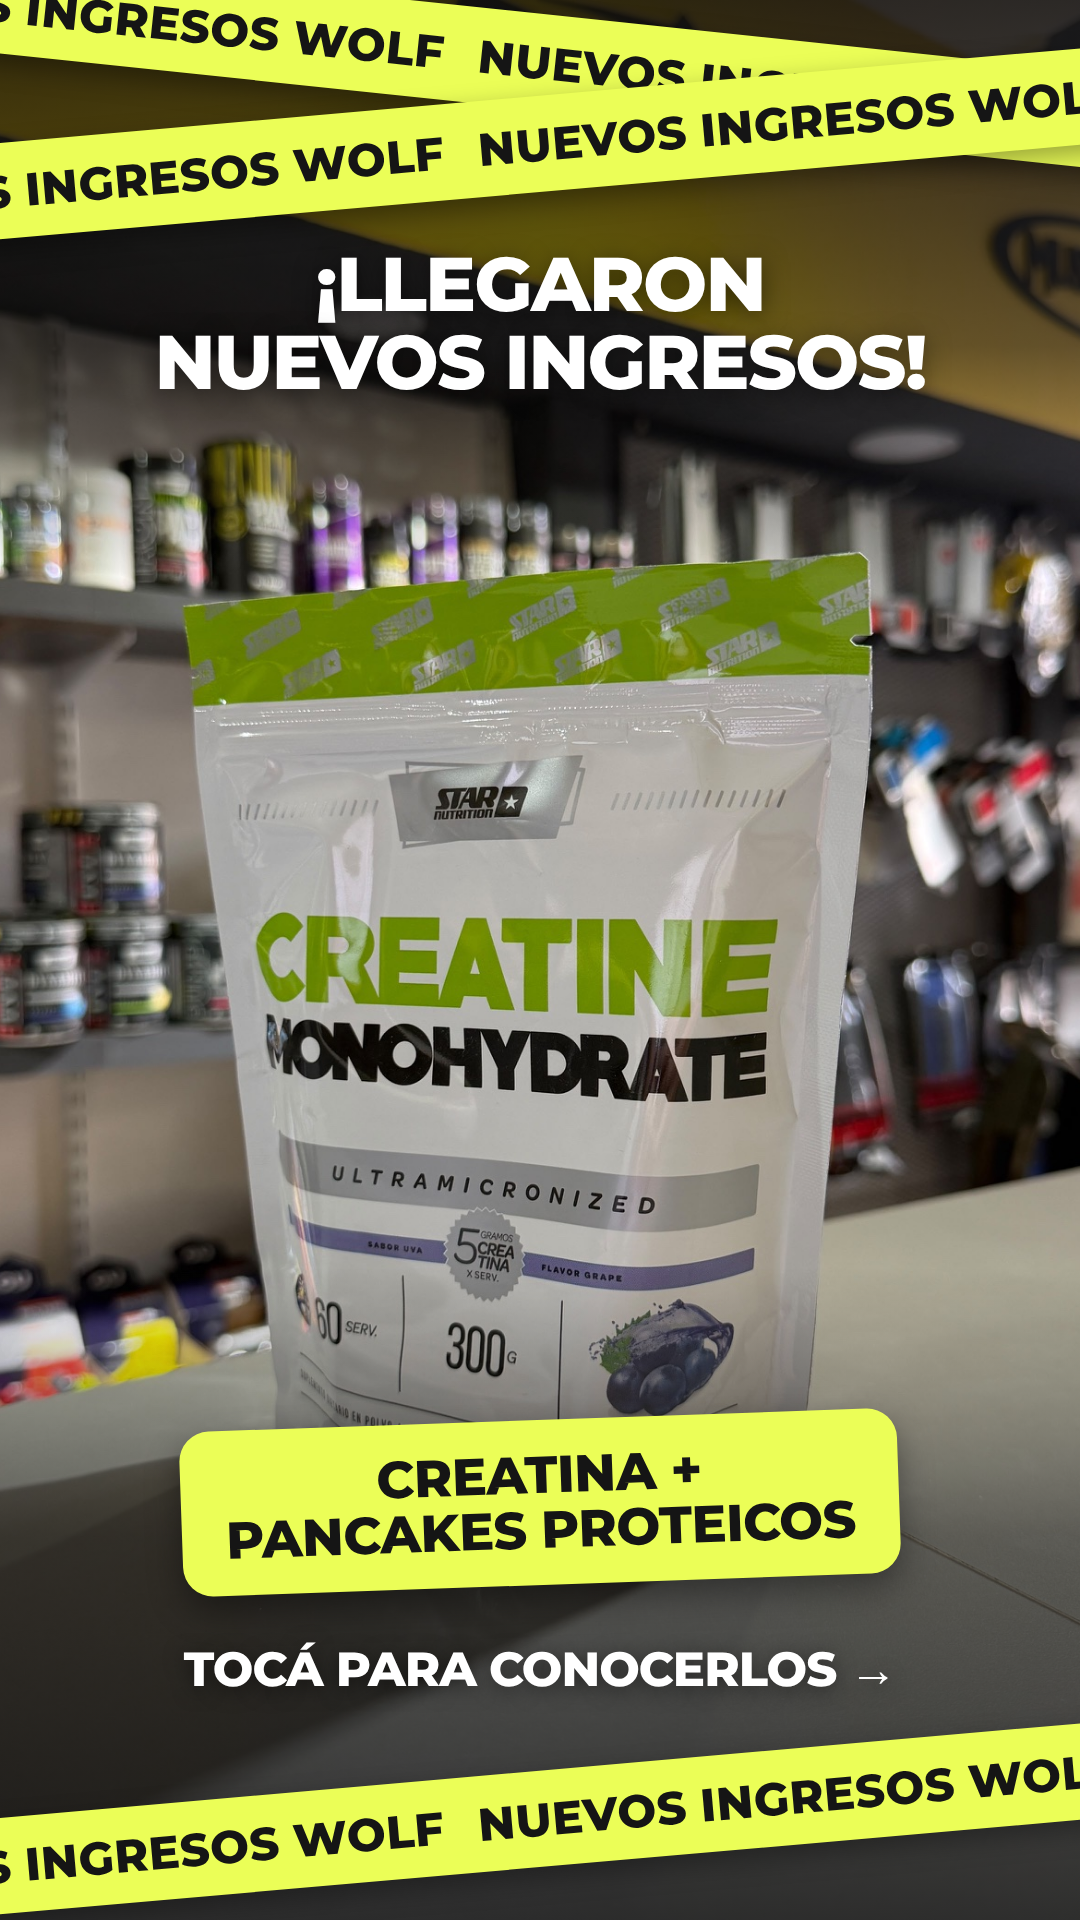
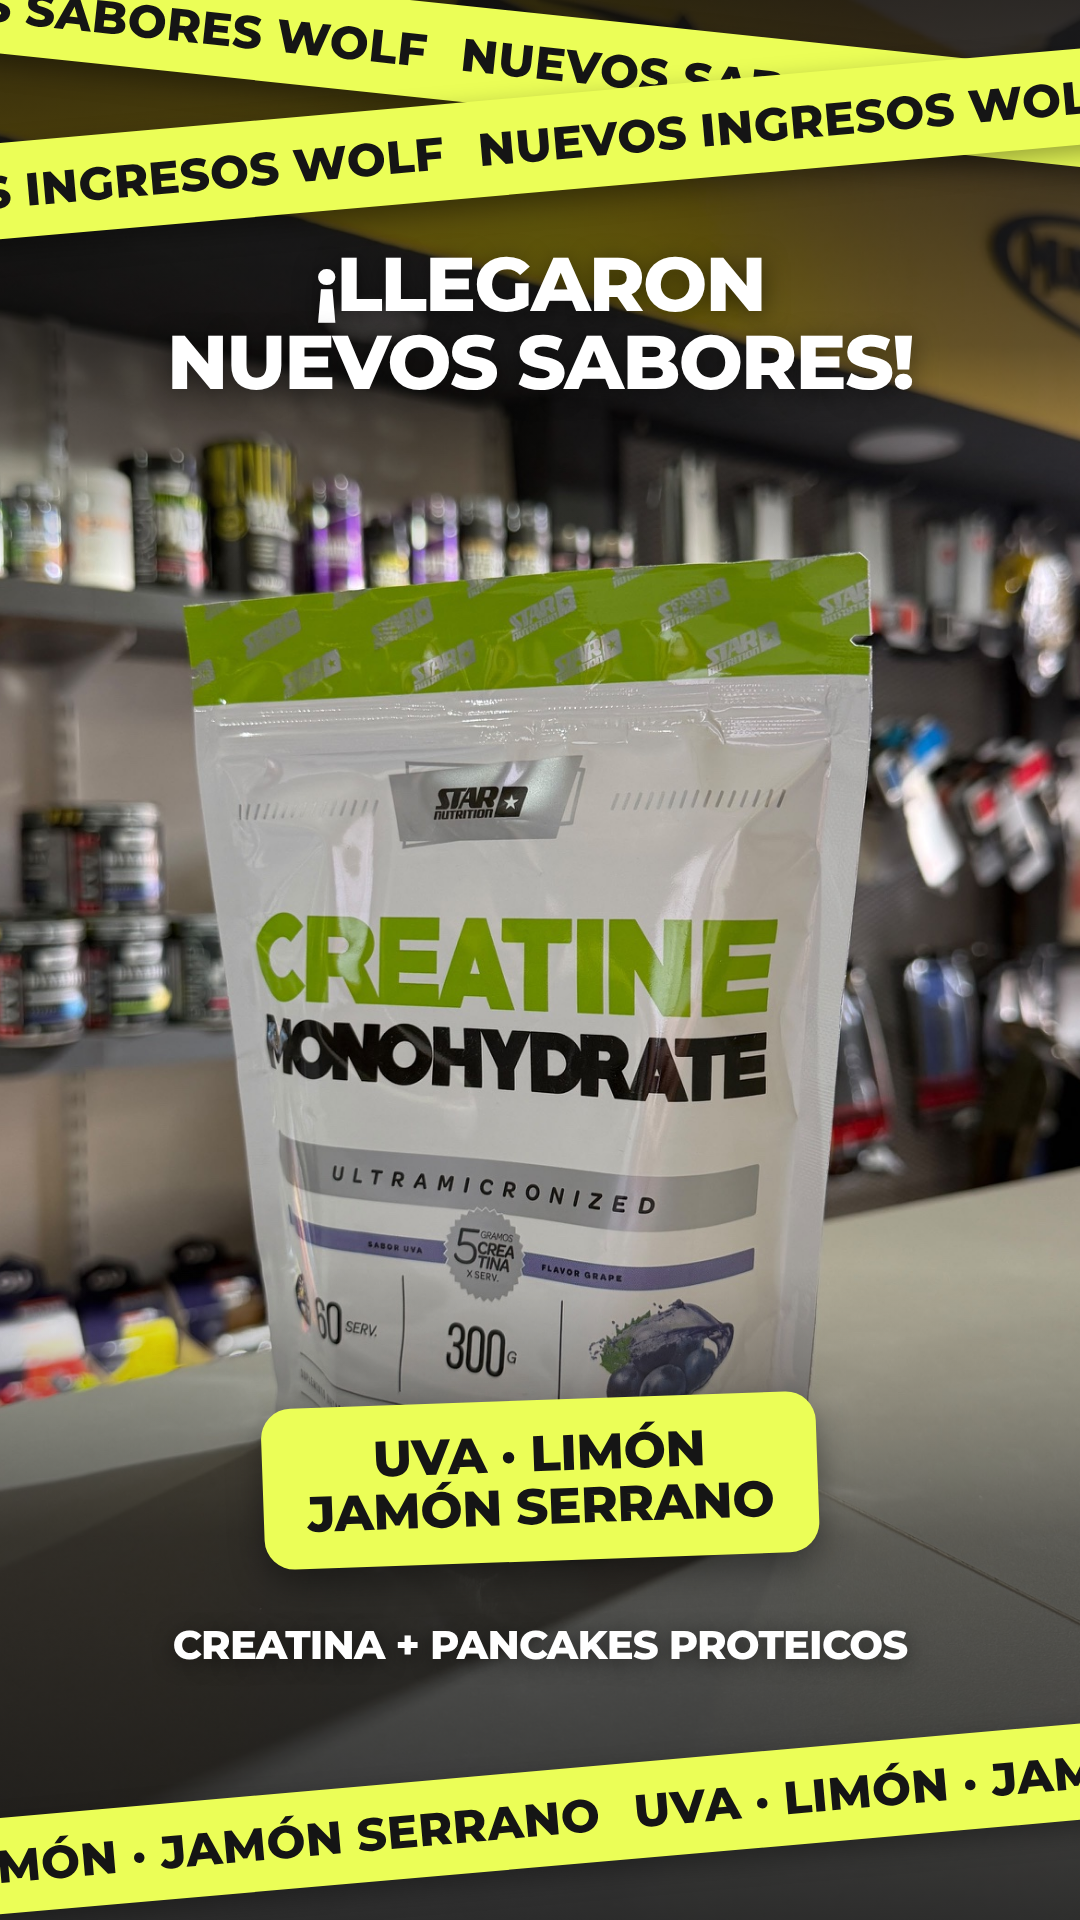
Historias Wolf: destacar los nuevos sabores y quitar el 'tocá para ver'
Claude-Session: https://claude.ai/code/session_014Xof4dSmfPa2gf1dmKRBzh

diff --git a/wolf-historias/historias.html b/wolf-historias/historias.html
@@ -38,91 +38,64 @@
   .half img{position:absolute;top:0;height:100%;width:auto}
   .divider{position:absolute;top:420px;bottom:560px;left:536px;width:8px;background:var(--lime);z-index:4;transform:skewX(-4deg)}
   .poll{position:absolute;left:150px;right:150px;height:230px;border:4px dashed rgba(255,255,255,.75);border-radius:34px;display:flex;align-items:center;justify-content:center;font-weight:600;font-size:28px;color:#fff;text-transform:uppercase;background:rgba(20,20,20,.35);z-index:5}
+  .kicker{position:absolute;left:60px;right:60px;text-align:center;font-weight:600;font-size:36px;letter-spacing:.06em;text-transform:uppercase;text-shadow:0 3px 18px rgba(0,0,0,.6);z-index:5}
+  .flavor{position:absolute;left:30px;right:30px;text-align:center;font-weight:900;text-transform:uppercase;letter-spacing:-.035em;line-height:.95;color:var(--lime);text-shadow:0 6px 30px rgba(0,0,0,.55);z-index:5}
+  .flavor small{display:block;font-size:.42em;color:#fff;letter-spacing:.02em;font-weight:800;margin-bottom:6px}
 </style>
 </head>
 <body>
 
-<!-- ============ 01 PORTADA ============ -->
 <section class="story" id="s1">
   <img class="full" src="img/creatina2.jpg" style="object-position:50% 70%"><div class="shade"></div>
-
-  <div class="tape" style="top:15px;transform:rotate(6deg)"><span>NUEVOS INGRESOS WOLF</span><span>NUEVOS INGRESOS WOLF</span><span>NUEVOS INGRESOS WOLF</span><span>NUEVOS INGRESOS WOLF</span></div>
+  <div class="tape" style="top:15px;transform:rotate(6deg)"><span>NUEVOS SABORES WOLF</span><span>NUEVOS SABORES WOLF</span><span>NUEVOS SABORES WOLF</span><span>NUEVOS SABORES WOLF</span></div>
   <div class="tape" style="top:95px;transform:rotate(-5deg)"><span>NUEVOS INGRESOS WOLF</span><span>NUEVOS INGRESOS WOLF</span><span>NUEVOS INGRESOS WOLF</span><span>NUEVOS INGRESOS WOLF</span></div>
-
-  <div class="h1" style="top:245px;font-size:76px">¡Llegaron<br>nuevos ingresos!</div>
-
-  <div class="box" style="top:1420px;transform:translateX(-50%) rotate(-2deg);font-size:52px">Creatina +<br>pancakes proteicos</div>
-  <div class="foot" style="top:1640px;font-size:48px">Tocá para conocerlos →</div>
-
-  <div class="tape" style="top:1770px;transform:rotate(-5deg)"><span>NUEVOS INGRESOS WOLF</span><span>NUEVOS INGRESOS WOLF</span><span>NUEVOS INGRESOS WOLF</span><span>NUEVOS INGRESOS WOLF</span></div>
+  <div class="h1" style="top:245px;font-size:76px">¡Llegaron<br>nuevos sabores!</div>
+  <div class="box" style="top:1400px;transform:translateX(-50%) rotate(-2deg);font-size:50px">Uva · Limón<br>Jamón serrano</div>
+  <div class="foot" style="top:1620px;font-size:40px">Creatina + pancakes proteicos</div>
+  <div class="tape" style="top:1770px;transform:rotate(-5deg)"><span>UVA · LIMÓN · JAMÓN SERRANO</span><span>UVA · LIMÓN · JAMÓN SERRANO</span><span>UVA · LIMÓN · JAMÓN SERRANO</span></div>
 </section>
-
-<!-- ============ 02 CREATINA ============ -->
 <section class="story" id="s2">
   <img class="full" src="img/creatina1.jpg" style="object-position:50% 75%"><div class="shade"></div>
-
-  <div class="tape" style="top:15px;transform:rotate(-5deg)"><span>NUEVO INGRESO WOLF</span><span>NUEVO INGRESO WOLF</span><span>NUEVO INGRESO WOLF</span><span>NUEVO INGRESO WOLF</span></div>
-  <div class="tape" style="top:95px;transform:rotate(5deg)"><span>NUEVO INGRESO WOLF</span><span>NUEVO INGRESO WOLF</span><span>NUEVO INGRESO WOLF</span><span>NUEVO INGRESO WOLF</span></div>
-
-  <div class="h1" style="top:240px;font-size:74px">Creatina<br>monohidrato</div>
-  <div class="sub" style="top:405px;font-size:42px">Star Nutrition · 300 g</div>
-
+  <div class="tape" style="top:15px;transform:rotate(-5deg)"><span>NUEVO SABOR WOLF</span><span>NUEVO SABOR WOLF</span><span>NUEVO SABOR WOLF</span><span>NUEVO SABOR WOLF</span><span>NUEVO SABOR WOLF</span></div>
+  <div class="tape" style="top:95px;transform:rotate(5deg)"><span>NUEVO INGRESO WOLF</span><span>NUEVO INGRESO WOLF</span><span>NUEVO INGRESO WOLF</span><span>NUEVO INGRESO WOLF</span><span>NUEVO INGRESO WOLF</span></div>
+  <div class="kicker" style="top:235px">Creatina monohidrato · Star Nutrition</div>
+  <div class="flavor" style="top:290px;font-size:150px"><small>Nuevo sabor</small>Uva</div>
   <div class="box" style="top:1420px;transform:translateX(-50%) rotate(-2deg);font-size:52px">5 g por servicio<br>60 servicios</div>
-  <div class="pills" style="top:1640px"><span>Ultramicronizada</span><span>Sabor uva</span><span>Sin gluten</span></div>
-
-  <div class="tape" style="top:1780px;transform:rotate(4deg)"><span>NUEVO INGRESO WOLF</span><span>NUEVO INGRESO WOLF</span><span>NUEVO INGRESO WOLF</span><span>NUEVO INGRESO WOLF</span></div>
+  <div class="pills" style="top:1640px"><span>Ultramicronizada</span><span>300 g</span><span>Sin gluten</span></div>
+  <div class="tape" style="top:1780px;transform:rotate(4deg)"><span>SABOR UVA</span><span>SABOR UVA</span><span>SABOR UVA</span><span>SABOR UVA</span><span>SABOR UVA</span></div>
 </section>
-
-<!-- ============ 03 PANCAKES LIMÓN ============ -->
 <section class="story" id="s3">
   <img class="full" src="img/limon.jpg" style="object-position:50% 70%"><div class="shade"></div>
-
   <div class="tape" style="top:15px;transform:rotate(5deg)"><span>EDICIÓN LIMITADA</span><span>EDICIÓN LIMITADA</span><span>EDICIÓN LIMITADA</span><span>EDICIÓN LIMITADA</span><span>EDICIÓN LIMITADA</span></div>
-  <div class="tape" style="top:95px;transform:rotate(-4deg)"><span>NUEVO INGRESO WOLF</span><span>NUEVO INGRESO WOLF</span><span>NUEVO INGRESO WOLF</span><span>NUEVO INGRESO WOLF</span></div>
-
-  <div class="h1" style="top:240px;font-size:74px">Pancakes<br>proteicos</div>
-  <div class="sub" style="top:405px;font-size:42px">Granger Foods · sabor limón</div>
-
+  <div class="tape" style="top:95px;transform:rotate(-4deg)"><span>NUEVO SABOR WOLF</span><span>NUEVO SABOR WOLF</span><span>NUEVO SABOR WOLF</span><span>NUEVO SABOR WOLF</span><span>NUEVO SABOR WOLF</span></div>
+  <div class="kicker" style="top:235px">Pancakes proteicos · Granger Foods</div>
+  <div class="flavor" style="top:290px;font-size:150px"><small>Nuevo sabor</small>Limón</div>
   <div class="box" style="top:1420px;transform:translateX(-50%) rotate(2deg);font-size:52px">15 g de proteína<br>por porción</div>
-  <div class="pills" style="top:1640px"><span>Sin gluten</span><span>Sin azúcar agregada</span><span>Listos en 3'</span></div>
-
-  <div class="tape" style="top:1780px;transform:rotate(-4deg)"><span>EDICIÓN LIMITADA</span><span>EDICIÓN LIMITADA</span><span>EDICIÓN LIMITADA</span><span>EDICIÓN LIMITADA</span><span>EDICIÓN LIMITADA</span></div>
+  <div class="pills" style="top:1640px"><span>Edición limitada</span><span>Sin azúcar agregada</span></div>
+  <div class="tape" style="top:1780px;transform:rotate(-4deg)"><span>SABOR LIMÓN</span><span>SABOR LIMÓN</span><span>SABOR LIMÓN</span><span>SABOR LIMÓN</span><span>SABOR LIMÓN</span></div>
 </section>
-
-<!-- ============ 04 PANCAKES JAMÓN SERRANO ============ -->
 <section class="story" id="s4">
   <img class="full" src="img/jamon.jpg" style="object-position:50% 70%"><div class="shade"></div>
-
   <div class="tape" style="top:15px;transform:rotate(-5deg)"><span>EDICIÓN LIMITADA</span><span>EDICIÓN LIMITADA</span><span>EDICIÓN LIMITADA</span><span>EDICIÓN LIMITADA</span><span>EDICIÓN LIMITADA</span></div>
-  <div class="tape" style="top:95px;transform:rotate(4deg)"><span>NUEVO INGRESO WOLF</span><span>NUEVO INGRESO WOLF</span><span>NUEVO INGRESO WOLF</span><span>NUEVO INGRESO WOLF</span></div>
-
-  <div class="h1" style="top:240px;font-size:74px">Pancakes<br>salados</div>
-  <div class="sub" style="top:405px;font-size:42px">Granger Foods · jamón serrano</div>
-
+  <div class="tape" style="top:95px;transform:rotate(4deg)"><span>NUEVO SABOR WOLF</span><span>NUEVO SABOR WOLF</span><span>NUEVO SABOR WOLF</span><span>NUEVO SABOR WOLF</span><span>NUEVO SABOR WOLF</span></div>
+  <div class="kicker" style="top:235px">Pancakes proteicos salados · Granger</div>
+  <div class="flavor" style="top:290px;font-size:104px"><small>Nuevo sabor</small>Jamón serrano</div>
   <div class="box" style="top:1420px;transform:translateX(-50%) rotate(-2deg);font-size:52px">12 g de proteína<br>por porción</div>
-  <div class="pills" style="top:1640px"><span>Sin gluten</span><span>Listos en 3'</span><span>Rinde 12</span></div>
-
-  <div class="tape" style="top:1780px;transform:rotate(5deg)"><span>EDICIÓN LIMITADA</span><span>EDICIÓN LIMITADA</span><span>EDICIÓN LIMITADA</span><span>EDICIÓN LIMITADA</span><span>EDICIÓN LIMITADA</span></div>
+  <div class="pills" style="top:1640px"><span>Edición limitada</span><span>Listos en 3'</span><span>Sin gluten</span></div>
+  <div class="tape" style="top:1780px;transform:rotate(5deg)"><span>SABOR JAMÓN SERRANO</span><span>SABOR JAMÓN SERRANO</span><span>SABOR JAMÓN SERRANO</span><span>SABOR JAMÓN SERRANO</span><span>SABOR JAMÓN SERRANO</span></div>
 </section>
-
-<!-- ============ 05 CIERRE ============ -->
 <section class="story" id="s5">
   <div class="half" style="left:0"><img src="img/limon.jpg" style="left:-450px"></div>
   <div class="half" style="left:540px"><img src="img/jamon.jpg" style="left:-455px"></div>
   <div class="divider"></div>
   <div class="shade"></div>
-
-  <div class="tape" style="top:15px;transform:rotate(6deg)"><span>NUEVOS INGRESOS WOLF</span><span>NUEVOS INGRESOS WOLF</span><span>NUEVOS INGRESOS WOLF</span><span>NUEVOS INGRESOS WOLF</span></div>
-  <div class="tape" style="top:95px;transform:rotate(-5deg)"><span>NUEVOS INGRESOS WOLF</span><span>NUEVOS INGRESOS WOLF</span><span>NUEVOS INGRESOS WOLF</span><span>NUEVOS INGRESOS WOLF</span></div>
-
-  <div class="h1" style="top:250px;font-size:80px">¿Vos sos team…</div>
-
-  <div class="box" style="left:270px;top:1330px;transform:translateX(-50%) rotate(-4deg);font-size:62px">Dulce</div>
-  <div class="box" style="left:810px;top:1330px;transform:translateX(-50%) rotate(4deg);font-size:62px">Salado</div>
-
+  <div class="tape" style="top:15px;transform:rotate(6deg)"><span>NUEVOS SABORES WOLF</span><span>NUEVOS SABORES WOLF</span><span>NUEVOS SABORES WOLF</span><span>NUEVOS SABORES WOLF</span></div>
+  <div class="tape" style="top:95px;transform:rotate(-5deg)"><span>NUEVOS SABORES WOLF</span><span>NUEVOS SABORES WOLF</span><span>NUEVOS SABORES WOLF</span><span>NUEVOS SABORES WOLF</span></div>
+  <div class="h1" style="top:250px;font-size:80px">¿Cuál elegís?</div>
+  <div class="box" style="left:270px;top:1300px;transform:translateX(-50%) rotate(-4deg);font-size:58px">Limón</div>
+  <div class="box" style="left:810px;top:1280px;transform:translateX(-50%) rotate(4deg);font-size:50px">Jamón<br>serrano</div>
   <div class="poll" style="top:1500px">Espacio para sticker de encuesta</div>
   <div class="foot" style="top:1760px;font-size:48px">Pedilos por DM</div>
 </section>
-
 </body>
 </html>
